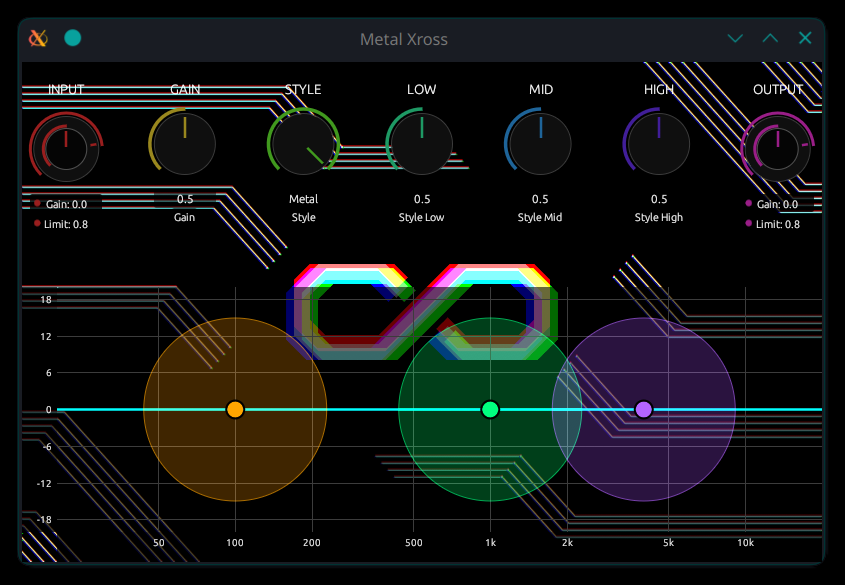
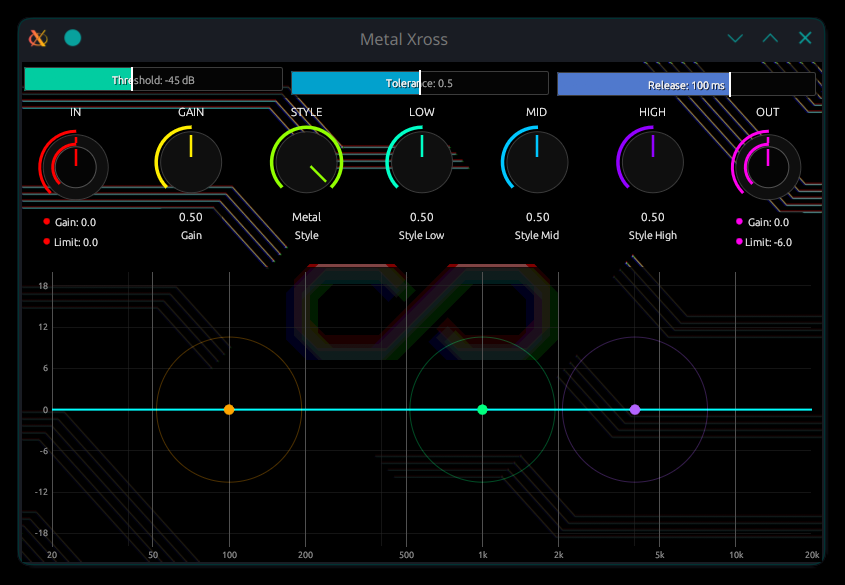
feat: v2.1.0

diff --git a/README.md b/README.md
@@ -1,65 +1,69 @@
-
 # Metal Xross
-![](./thumbnail.png)
+
+![Metal Xross](./thumbnail.png)
 
 **Metal Xross** is a high-performance, modern distortion plugin built with Rust using the `nih-plug` framework and `egui`. Designed for guitarists and sound designers who demand aggressive yet controllable saturation, it combines four distinct distortion algorithms with a precision 3-band parametric equalizer.
 
 ## ⚡ Features
 
-  * **Quad-Style Distortion Engine**: Seamlessly morph between four handcrafted distortion models:
+  * **Quad-Style Distortion Engine**: Seamlessly morph between four handcrafted distortion models using the `Kind` parameter:
       * **Crunch**: Vintage tube-like saturation with dynamic response.
       * **Drive**: Balanced overdrive for versatile rock tones.
       * **Distortion**: High-density, saturated clipping for modern hard rock.
       * **Metal**: Ultra-high gain with razor-sharp edges and massive sustain.
-  * **Pre-Emphasis Style Shaping**: Adjust `Style Low/Mid/High` to shape the frequency response *before* it hits the distortion stage, allowing for tight palm mutes or fuzzy, thick leads.
-  * **Visual 3-Band Parametric EQ**: A post-distortion equalizer with real-time visual feedback. Fine-tune your final tone by carving out harsh frequencies or boosting the "body."
-  * **Integrated Dynamics**:
-      * Dual-stage **Noise Gate** (Pre/Post distortion) for tight, percussive riffing.
-      * Input/Output **Limiters** to ensure your signal never clips your DAW's master bus.
-  * **Cyberpunk UI**: A bespoke, hardware-inspired interface powered by `egui`, featuring smooth knob responses and a futuristic vector-based layout.
+  * **Pre-Emphasis Style Shaping**: Adjust `Style Low/Mid/High` to shape the frequency response *before* it hits the distortion stage. This allows for tightening palm mutes or creating fuzzy, thick leads.
+  * **Precision 3-Band Parametric EQ**: A post-distortion equalizer with real-time visual feedback.
+      * **Low & High**: Shelf filters for weight and air.
+      * **Mid**: Peaking filter for surgical frequency carving.
+      * **Interactive UI**: Drag points to adjust Freq/Gain, and use the mouse wheel to control **Q-factor**.
+  * **Intelligent Noise Gate**: A spectral-aware gate designed for high-gain playing.
+      * **Tolerance**: Adjusts spectral sensitivity to preserve harmonics while killing hiss.
+      * **Skewed Release**: Fine-tuned resolution for "Djent-style" rapid mutes.
+  * **Professional I/O Stage**:
+      * **Symmetrical Skewed Gain**: Natural volume control centered at 0dB.
+      * **Safety Limiters**: Independent Input and Output limiters to prevent digital clipping.
 
 ## 🛠 Signal Chain
 
 The internal processing follows a professional studio rack logic:
 
 1.  **Input Stage**: Gain adjustment and initial Limiting.
-2.  **Pre-Gate**: Removes guitar pickup hum before amplification.
-3.  **Xross Gain System**: The core distortion engine with 4 styles and 3 pre-emphasis filters.
-4.  **Post-Gate**: Suppresses noise floor amplified by high-gain settings.
-5.  **Equalizer**: 3-band parametric EQ (Low, Mid, High) for final coloring.
-6.  **Output Stage**: Final volume leveling and safety limiting.
+2.  **Noise Gate**: Threshold-based suppression with spectral tolerance to clean up the DI signal.
+3.  **Style Shaping**: 3-band pre-emphasis filtering.
+4.  **Xross Gain**: The core distortion engine (Crunch → Metal).
+5.  **Parametric EQ**: 3-band post-distortion tonal shaping.
+6.  **Output Stage**: Final gain leveling and safety limiting.
 
 ## 🚀 Getting Started
 
 ### Prerequisites
 
-  * [Rust](https://www.rust-lang.org/) (Latest stable or nightly)
-  * Compatible DAW (for VST3/CLAP/AU) or use the Standalone mode.
+  * [Rust](https://www.rust-lang.org/) (Latest stable)
+  * `nih-plug` dependencies (see nih-plug documentation for your OS).
 
-### Build and Run
-
-This project uses `xtask` for streamlined development.
+### Build
 
 ```bash
-# Run the standalone version immediately
-cargo run --release
-
-# Bundle the plugin for use in your DAW (VST3, etc.)
-cargo bundle --release
+# Build the plugin in release mode
+cargo build --release
 ```
 
-The bundled plugin will be located in the `target/` directory under the respective format folder.
+## 🎛 Parameter Reference
 
-## 🎛 Parameters
-
-| Group | Parameter | Description |
-| :--- | :--- | :--- |
-| **General** | Gain | Overall saturation intensity. |
-| **Style** | Kind | Morphs between Crunch, Drive, Distortion, and Metal. |
-| **Style EQ** | Pre Low/Mid/High | Shapes the "bite" and "weight" of the distortion. |
-| **EQ** | Freq / Q / Gain | Post-distortion tonal shaping for 3 bands. |
-| **I/O** | Limit | Sets the ceiling for the internal limiters. |
+| Group | Parameter | Range | Description |
+| :--- | :--- | :--- | :--- |
+| **Noise Gate** | Threshold | -70 to -10 dB | Level at which the gate opens. |
+| | Tolerance | 0.0 to 1.0 | Harmonic preservation vs. tight cutting. |
+| | Release | 1 to 500 ms | Speed of the gate closing (skewed for fast response). |
+| **General** | Gain | 0.0 to 1.0 | Overall saturation/drive intensity. |
+| | I/O Gain | -inf to +12 dB | Volume adjustment (0dB center). |
+| | I/O Limit | -60 to 0 dB | Limiter ceiling for input and output. |
+| **Style** | Kind | 0.0 to 3.0 | Morphs: Crunch(0) → Drive(1) → Dist(2) → Metal(3). |
+| | Pre L/M/H | 0.0 to 1.0 | Pre-distortion frequency emphasis. |
+| **Equalizer** | Freq | 20Hz to 20kHz | Center/Cutoff frequency (logarithmic scale). |
+| | Gain | ±20 dB | Boost or cut for the specific band. |
+| | Q | 0.1 to 10.0 | Bandwidth of the filter. |
 
 ## 📜 License
 
-This project is licensed under the **MIT License** (or specify your preferred license).
+This project is licensed under the **MIT License**.
